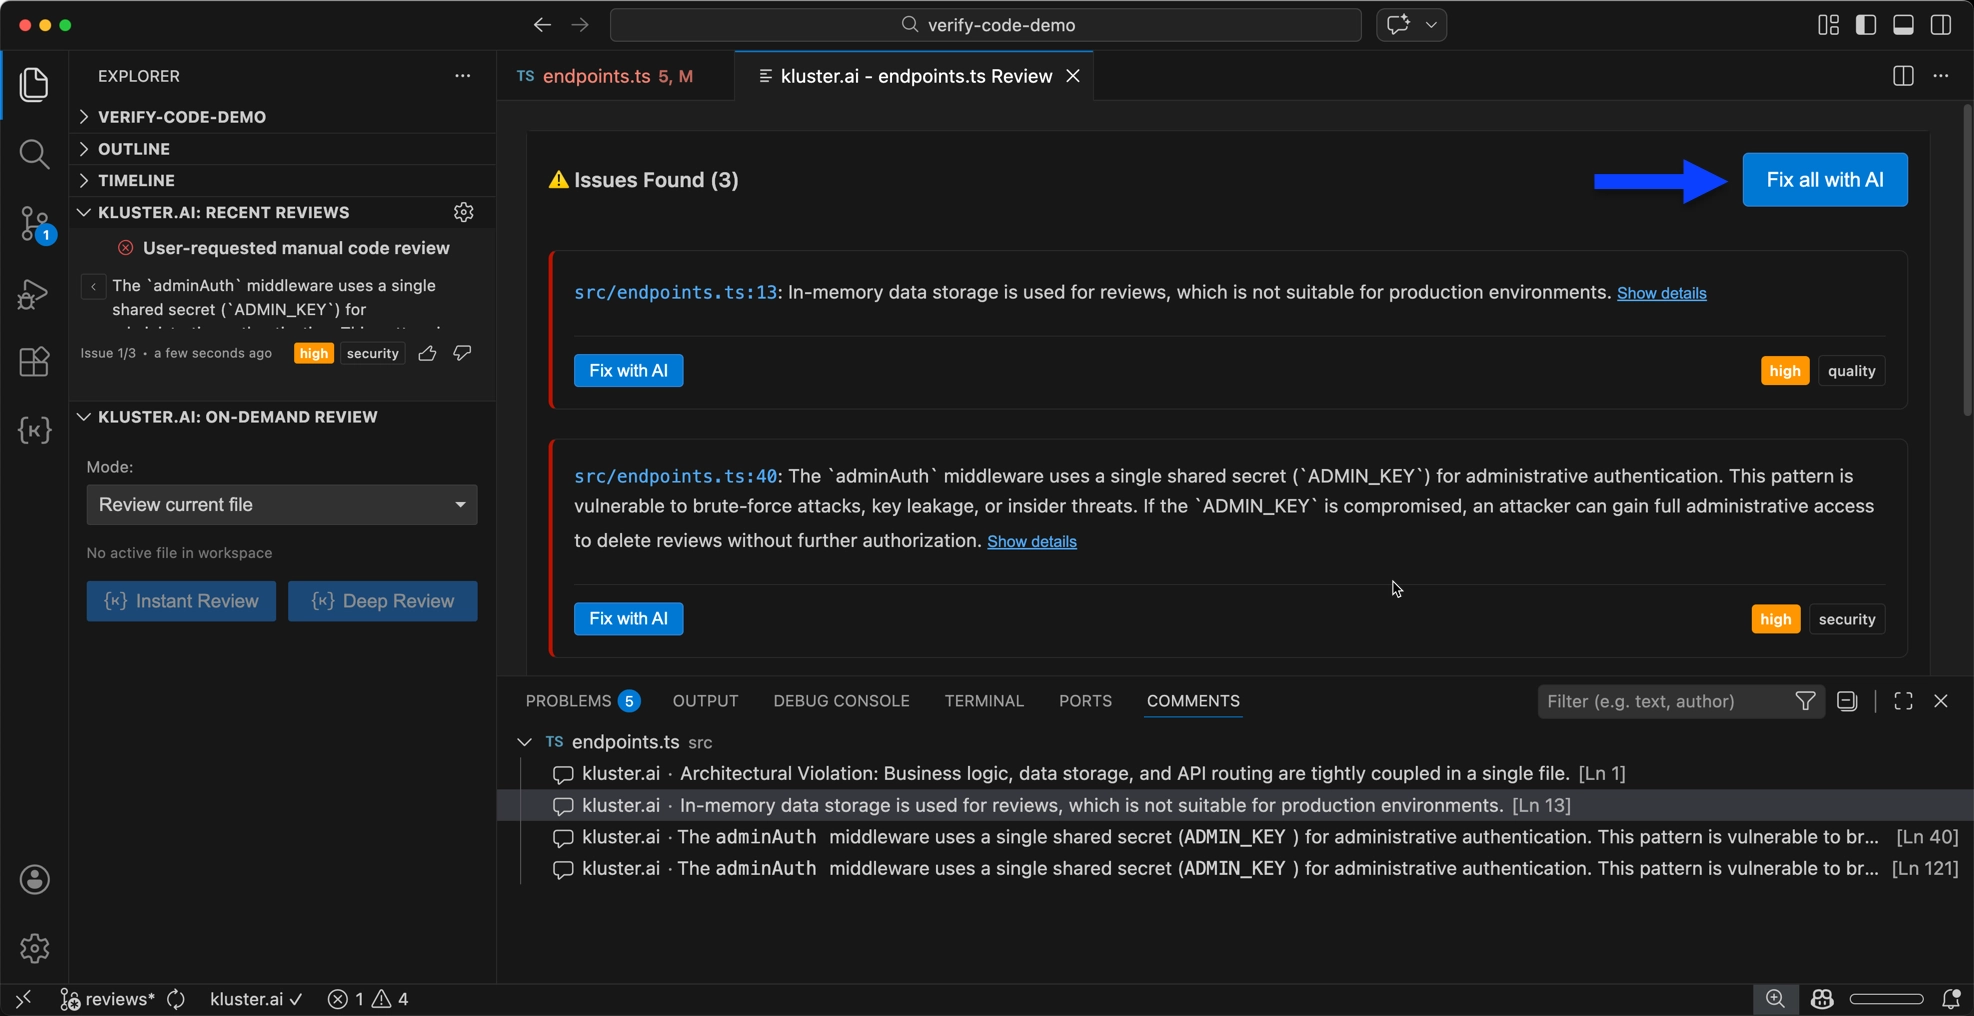
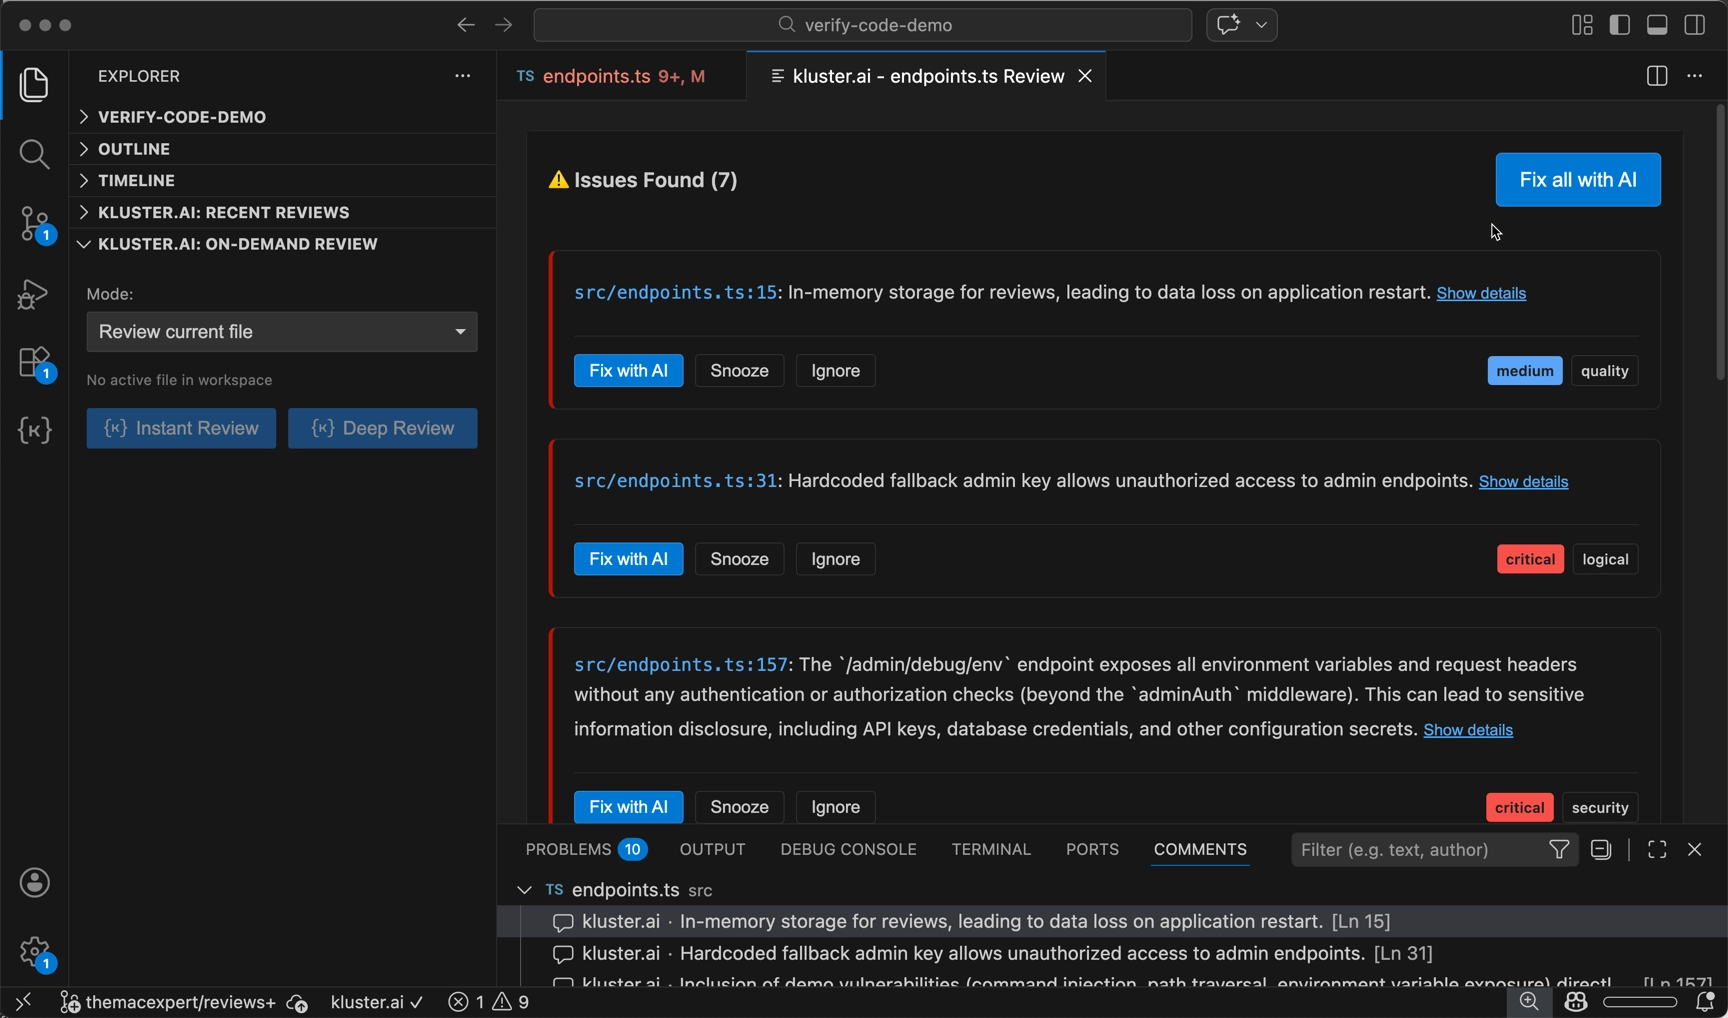
Adds Snooze and Ignore (#234)
* snooze ignore

* revisions

* rev

---------

diff --git a/code-reviews/faq.md b/code-reviews/faq.md
@@ -67,6 +67,10 @@ kluster.ai sources vulnerability data from public CVE databases that are continu
 
 Each time a code review is done, a feedback option is available from the extension or in the platform. Your feedback helps improve detection accuracy and reduce false positives.
 
+### What should I do if kluster.ai flags a false positive?
+
+In [on-demand IDE reviews](/code-reviews/ide-reviews/human-written-code/on-demand-reviews/quickstart/) and [repo reviews](/code-reviews/repo-reviews/quickstart/), you can **Ignore** a false positive to permanently dismiss it from future reviews. If you want to revisit the issue later, use **Snooze** to temporarily hide it for 1, 7, or 30 days. Your feedback through these actions helps improve detection accuracy.
+
 ### Do kluster.ai reviews improve over time?
 
 Yes. When you connect your GitHub repositories, kluster.ai learns rules from your repo and applies project-specific configurations. See [Custom Rules](/code-reviews/configuration/rules/) for more details.
@@ -184,3 +188,13 @@ Yes. Repo reviews work with both public and private repositories on GitHub, GitL
 ### Where can I access repo reviews?
 
 Repo reviews are available only through the web dashboard at [platform.kluster.ai/repo-reviews](https://platform.kluster.ai/repo-reviews){target=_blank}. You need to connect your GitHub, GitLab, or Bitbucket account first. Repo reviews are not available in IDE extensions or CLI tools.
+
+### What do the Fix with AI, Snooze, and Ignore actions do?
+
+When reviewing bugs found by kluster.ai, each issue has actions to help you manage findings:
+
+- **Fix with AI**: Generates an AI-powered fix suggestion. In IDE on-demand reviews, the fix is applied with one click. In repo reviews, you get a prompt to paste into your AI assistant.
+- **Snooze**: Temporarily hides the issue for a selected duration (1 day, 7 days, or 30 days). The issue reappears automatically after the snooze period expires. Use this for issues you plan to address later.
+- **Ignore**: Permanently dismisses the issue. It will not reappear in future reviews. Use this for false positives or accepted risks.
+
+These actions are available in [on-demand IDE reviews](/code-reviews/ide-reviews/human-written-code/on-demand-reviews/quickstart/) and [repo reviews](/code-reviews/repo-reviews/quickstart/).

diff --git a/code-reviews/ide-reviews/human-written-code/on-demand-reviews/quickstart.md b/code-reviews/ide-reviews/human-written-code/on-demand-reviews/quickstart.md
@@ -52,9 +52,16 @@ Then choose your analysis depth for your code reviews:
 !!! info "Accessing On-Demand Review"
     You can also access On-Demand Review from the **Home** and **Git** tabs. Expand the kluster.ai section if collapsed.
 
-After the review completes, kluster.ai displays any issues found. You can click **Fix with AI** to automatically resolve them.
+After the review completes, kluster.ai displays any issues found. For each issue, you have three actions:
 
-![Review results showing issues found](/images/code-reviews/ide-reviews/human-written-code/on-demand-reviews/manual-review-this-code-extension-results.webp)
+- **Fix with AI**: Generates an AI-powered fix suggestion that you can apply with one click.
+- **Snooze**: Temporarily hides the issue for a selected duration (1 day, 7 days, or 30 days). The issue reappears automatically after the snooze period expires.
+- **Ignore**: Permanently dismisses the issue. It will not reappear in future reviews.
+
+![Review results showing issues found with Fix with AI, Snooze, and Ignore actions](/images/code-reviews/ide-reviews/human-written-code/on-demand-reviews/manual-review-this-code-extension-results.webp)
+
+!!! tip "When to snooze vs. ignore"
+    Use **Snooze** for issues you plan to address later but don't want cluttering your current review. Use **Ignore** for false positives or accepted risks that don't need further attention.
 
 ## Code block review
 

diff --git a/code-reviews/repo-reviews/quickstart.md b/code-reviews/repo-reviews/quickstart.md
@@ -82,14 +82,17 @@ Click a given bug or issue to learn more. The detail view includes:
 
 ### 5. Take action
 
-For each issue, you have three options:
+For each issue, you have four actions:
 
 - **Copy**: Copy the issue details to share or save.
 - **Fix with AI**: Get a prompt to paste into your AI assistant (Claude, Cursor, etc.) to fix it automatically.
-- **Dismiss**: Mark as false positive or accepted risk.
+- **Snooze**: Temporarily hides the issue for a selected duration (1 day, 7 days, or 30 days). The issue reappears automatically after the snooze period expires.
+- **Ignore**: Permanently dismisses the issue. It will not reappear in future reviews.
 
-![Take action on the bugs found by clicking one of the available options](/images/code-reviews/repo-reviews/repo-reviews-setup-6.webp)
+![Take action on the bugs found by clicking one of the available actions](/images/code-reviews/repo-reviews/repo-reviews-setup-6.webp)
 
+!!! tip "When to snooze vs. ignore"
+    Use **Snooze** for issues you plan to address later but don't want cluttering your current review. Use **Ignore** for false positives or accepted risks that don't need further attention.
 
 ## Next steps
 
